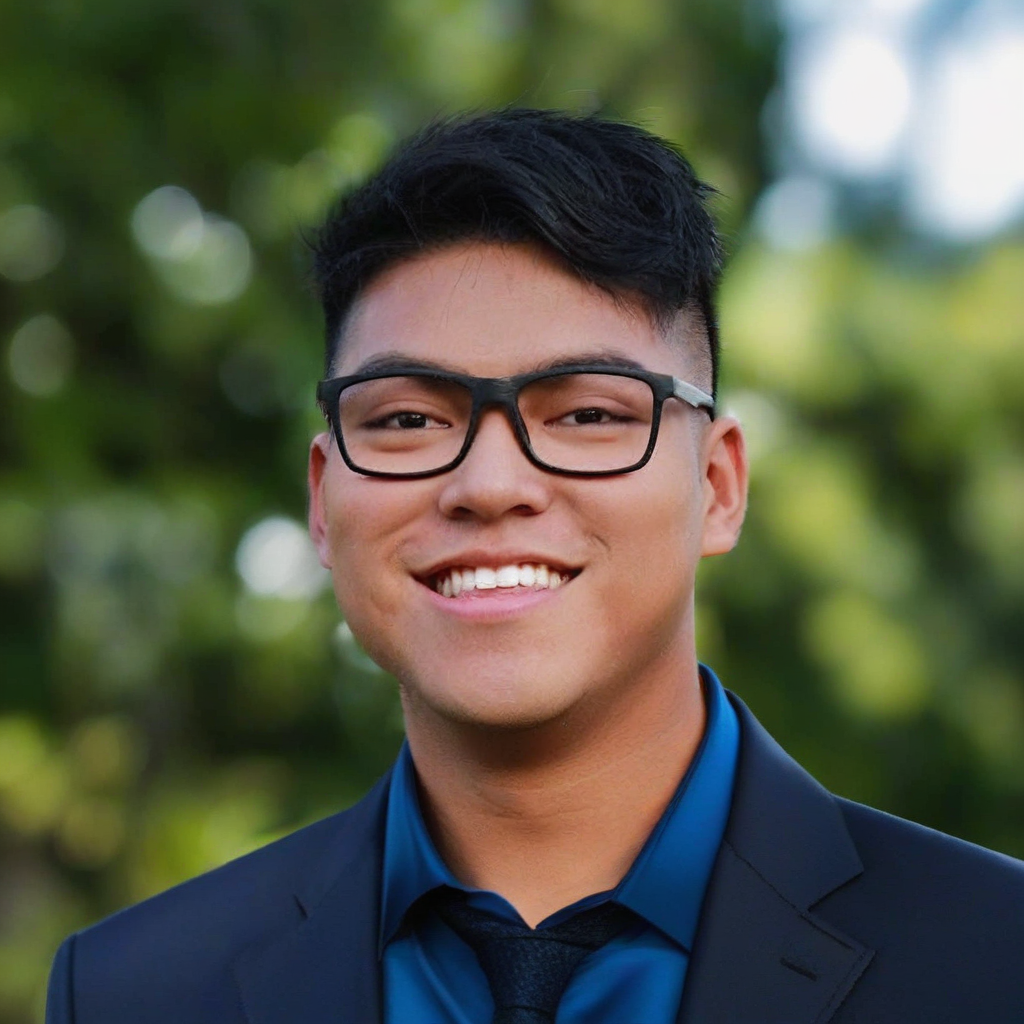
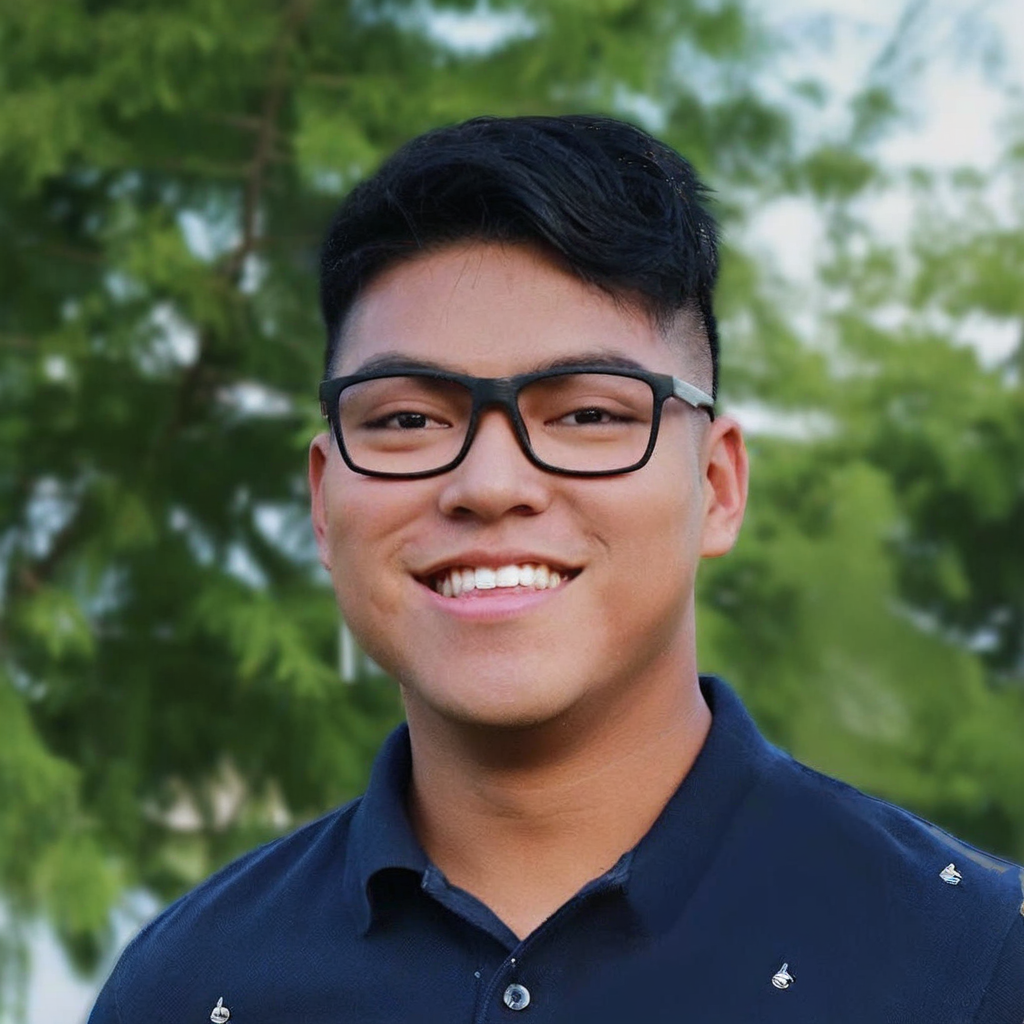
fix path back

diff --git a/src/app.py b/src/app.py
@@ -52,10 +52,15 @@ def segment_image(model, image_tensor):
 
 
 # Convert mask to image and save
-def save_mask(mask, save_path):
+def save_mask(mask, save_path, image_path):
     mask = mask > 0.5  # Apply threshold
     mask_image = Image.fromarray((mask * 255).astype(np.uint8))
-    mask_image.save(save_path)
+
+    image = Image.open(image_path).convert("RGB")
+    target_width, target_height = image.size
+    resized_mask = mask_image.resize((target_width, target_height))
+
+    resized_mask.save(save_path)
 
 
 # Main function to run the process
@@ -63,10 +68,10 @@ def run_inference(image_path, model_path, output_path):
     model = load_trained_model(model_path)
     image_tensor = preprocess_image(image_path)
     mask = segment_image(model, image_tensor)
-    save_mask(mask, output_path)
+    save_mask(mask, output_path, image_path)
 
 
-# Load model
+# Load Stable Diffusion model
 pipe = AutoPipelineForInpainting.from_pretrained(
     "diffusers/stable-diffusion-xl-1.0-inpainting-0.1"
 )
@@ -81,11 +86,12 @@ def generate_photo(input_image):
     prompt = "Professional LinkedIn photo, person in a suit, realistic skin texture, photorealistic, hyper realism, 85mm portrait photography, hard rim lighting photography, centered, plain or blurred background"
     negative_prompt = "deformed, disfigured, poor details, bad anatomy"
 
+    # Generate mask
+    run_inference(input_image, "model.pth", "../results/mask.png")
+    mask_image = Image.open("../results/mask.png").convert("RGB")
+
     # Process input image
     input_image = Image.open(input_image).convert("RGB")
-    mask_image = Image.open("../src/data/train_masks/33_mask.PNG").convert(
-        "RGB"
-    )  # temp mask loading
 
     # Generate output image
     images = pipe(
@@ -97,6 +103,8 @@ def generate_photo(input_image):
         num_inference_steps=20,
         guidance_scale=7.5,
     ).images
+
+    # Save image
     images[0].save(f"../results/{count}.png")
 
     return images[0]
